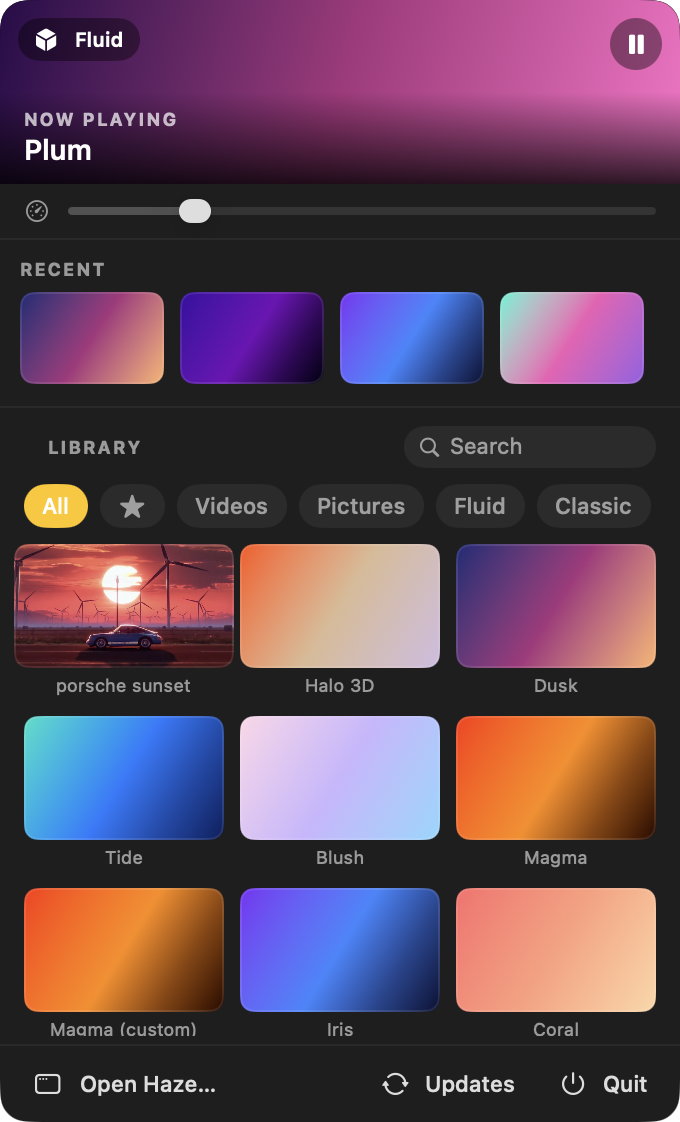
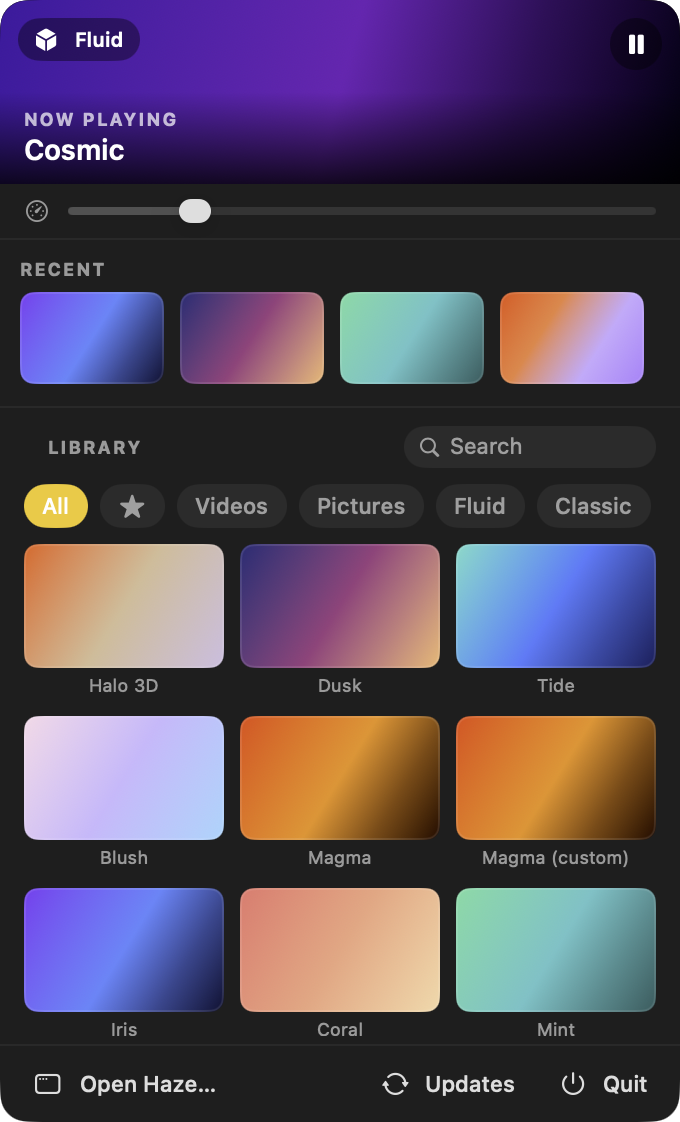
Pin the playing wallpaper, make every item editable, drop a personal clip
Three things the library view was missing.

The playing wallpaper now floats to the top of the grid, as the menu-bar panel
already did. It was always marked — accent ring, deeper shadow, a checkmark —
but in a category holding twenty-odd gradients "marked somewhere below" is not
findable, and you had to scroll hunting for it. Reordering on selection is the
cost, so the move is animated rather than a jump.

"Edit…" was in the context menu for gradients only, which left most of a
library with nothing behind a right-click. Everything file-backed now opens
MediaSettingsView: scaling, playback speed, and a frame-rate cap — all knobs
ItemSettings already carried with no way to reach them. Changes apply as you
make them, so with the item live you watch the desktop follow, which is the
only honest way to choose a scaling mode.

assets/menubar.png was reshot without the video in it. It was a personal clip
of the author's, not a bundled preset, and it had no business standing in for
the product in the README or on the site. Nothing in the code ever referenced
it — it was only ever in that screenshot.

diff --git a/Sources/Haze/Views/MediaSettingsView.swift b/Sources/Haze/Views/MediaSettingsView.swift
@@ -1,0 +1,165 @@
+import SwiftUI
+import HazeKit
+
+/// Adjustments for a file-backed item — video, GIF or still.
+///
+/// Gradients have had their own editor since the start; everything else could
+/// only be renamed, favourited or deleted, so "Edit…" was missing from the
+/// context menu for most of a library. These are the knobs `ItemSettings`
+/// already carried with no way to reach them.
+///
+/// Changes apply as you make them: if the item is the live wallpaper you watch
+/// the desktop follow, which is the only honest way to pick a scaling mode.
+struct MediaSettingsView: View {
+    @EnvironmentObject private var model: AppModel
+
+    let item: ContentItem
+    let onClose: () -> Void
+
+    @State private var scaling: Scaling
+    @State private var speed: Double
+    @State private var fps: Int
+
+    init(item: ContentItem, onClose: @escaping () -> Void) {
+        self.item = item
+        self.onClose = onClose
+        _scaling = State(initialValue: item.settings.scaling)
+        _speed = State(initialValue: item.settings.speed)
+        _fps = State(initialValue: item.settings.fps)
+    }
+
+    /// Stills have no playback rate to set.
+    private var supportsSpeed: Bool {
+        item.type == .video || item.type == .animatedImage
+    }
+
+    var body: some View {
+        VStack(alignment: .leading, spacing: 0) {
+            header
+
+            VStack(alignment: .leading, spacing: 22) {
+                scalingControl
+                if supportsSpeed { speedControl }
+                fpsControl
+            }
+            .padding(24)
+
+            Spacer(minLength: 0)
+
+            HStack {
+                Button("Reset") { reset() }
+                    .buttonStyle(.bordered)
+                Spacer()
+                Button("Done") { onClose() }
+                    .buttonStyle(.borderedProminent)
+                    .keyboardShortcut(.defaultAction)
+            }
+            .controlSize(.large)
+            .padding(24)
+        }
+        .frame(width: 460, height: supportsSpeed ? 520 : 440)
+    }
+
+    private var header: some View {
+        HStack(spacing: 14) {
+            ContentThumbnailView(item: item)
+                .frame(width: 96, height: 60)
+                .glassCard(cornerRadius: 10)
+
+            VStack(alignment: .leading, spacing: 3) {
+                Text(item.name)
+                    .font(.system(size: 20, weight: .semibold, design: .rounded))
+                    .lineLimit(1)
+                Text(item.type.displayName)
+                    .font(.subheadline)
+                    .foregroundStyle(.secondary)
+            }
+            Spacer()
+        }
+        .padding(.horizontal, 24)
+        .padding(.top, 26)
+    }
+
+    private var scalingControl: some View {
+        VStack(alignment: .leading, spacing: 8) {
+            label("Scaling", detail: scalingHint)
+            Picker("", selection: $scaling) {
+                ForEach(Scaling.allCases, id: \.self) { mode in
+                    Text(mode.displayName).tag(mode)
+                }
+            }
+            .pickerStyle(.segmented)
+            .labelsHidden()
+            .onChange(of: scaling) { apply() }
+        }
+    }
+
+    private var scalingHint: String {
+        switch scaling {
+        case .fill: return "Covers the screen, cropping the overflow."
+        case .fit: return "Shows all of it, letterboxed to fit."
+        case .stretch: return "Distorts to fill — ignores the aspect ratio."
+        case .center: return "Actual size, centred."
+        }
+    }
+
+    private var speedControl: some View {
+        VStack(alignment: .leading, spacing: 8) {
+            label("Speed", detail: String(format: "%.2f×", speed))
+            Slider(value: $speed, in: 0.25...2.0) { editing in
+                if !editing { apply() }
+            }
+            .onChange(of: speed) { model.liveUpdateCurrent(edited()) }
+        }
+    }
+
+    private var fpsControl: some View {
+        VStack(alignment: .leading, spacing: 8) {
+            label("Frame rate", detail: fps == 0 ? "Follows the display" : "\(fps) fps")
+            Picker("", selection: $fps) {
+                Text("Display").tag(0)
+                Text("60").tag(60)
+                Text("30").tag(30)
+                Text("24").tag(24)
+                Text("15").tag(15)
+            }
+            .pickerStyle(.segmented)
+            .labelsHidden()
+            .onChange(of: fps) { apply() }
+            Text("A lower cap costs less battery. Below 24 fps motion starts to judder.")
+                .font(.caption)
+                .foregroundStyle(.secondary)
+        }
+    }
+
+    private func label(_ title: String, detail: String) -> some View {
+        HStack(alignment: .firstTextBaseline) {
+            Text(title).font(.headline)
+            Spacer()
+            Text(detail)
+                .font(.caption)
+                .foregroundStyle(.secondary)
+        }
+    }
+
+    /// The item as the controls currently describe it.
+    private func edited() -> ContentItem {
+        var copy = item
+        copy.settings.scaling = scaling
+        copy.settings.speed = speed
+        copy.settings.fps = fps
+        return copy
+    }
+
+    private func apply() {
+        model.updateItem(edited())
+    }
+
+    private func reset() {
+        let defaults = ItemSettings()
+        scaling = defaults.scaling
+        speed = defaults.speed
+        fps = defaults.fps
+        apply()
+    }
+}

diff --git a/Sources/Haze/Views/WallpapersView.swift b/Sources/Haze/Views/WallpapersView.swift
@@ -10,7 +10,19 @@ struct WallpapersView: View {
     @EnvironmentObject private var model: AppModel
     @State private var category: LibraryCategory = .all
 
-    private var shown: [ContentItem] { model.items(in: category) }
+    /// The playing wallpaper is floated to the front, as the menu-bar panel
+    /// already does. With twenty-odd gradients in a category, "it is marked
+    /// somewhere in the grid" is not findable — you had to scroll hunting for a
+    /// ring. The cost is that picking a tile moves it to the top, so the
+    /// reorder is animated rather than a jump.
+    private var shown: [ContentItem] {
+        let all = model.items(in: category)
+        guard let current = model.settings.wallpaperItemID,
+              let index = all.firstIndex(where: { $0.id == current }) else { return all }
+        var reordered = all
+        reordered.insert(reordered.remove(at: index), at: 0)
+        return reordered
+    }
 
     var body: some View {
         VStack(spacing: 0) {
@@ -45,6 +57,7 @@ struct WallpapersView: View {
                             .contextMenu { menu(for: item) }
                         }
                     }
+                    .animation(.smooth(duration: 0.35), value: model.settings.wallpaperItemID)
                     .padding(24)
                 }
             }
@@ -95,12 +108,22 @@ struct WallpapersView: View {
         }
         Button("Set as Wallpaper") { model.setWallpaper(item) }
         Button("Use as Screensaver") { model.setScreensaver(item) }
+        Button("Edit…") { edit(item) }
         if item.type.isGradient {
-            Button("Edit…") { AppDelegate.shared?.showGradientEditor(.existing(item)) }
             Button("Duplicate") { duplicate(item) }
         }
         Divider()
         Button("Delete", role: .destructive) { model.deleteItem(item) }
+    }
+
+    /// Gradients open the gradient editor; everything else opens the media
+    /// adjustments. Every item in the library has something to edit.
+    private func edit(_ item: ContentItem) {
+        if item.type.isGradient {
+            AppDelegate.shared?.showGradientEditor(.existing(item))
+        } else {
+            AppDelegate.shared?.showMediaEditor(item)
+        }
     }
 
     private func duplicate(_ item: ContentItem) {

diff --git a/Sources/Haze/App/AppDelegate.swift b/Sources/Haze/App/AppDelegate.swift
@@ -114,6 +114,30 @@ final class AppDelegate: NSObject, NSApplicationDelegate, NSWindowDelegate {
         window.makeKeyAndOrderFront(nil)
     }
 
+    /// Adjustments for a file-backed item. Shares `editorWindow` with the
+    /// gradient editor — only one editor is ever meaningful at a time, and
+    /// reusing the slot means closing one cannot orphan the other.
+    func showMediaEditor(_ item: ContentItem) {
+        let close: () -> Void = { [weak self] in
+            self?.editorWindow?.close()
+            self?.editorWindow = nil
+        }
+
+        let root = MediaSettingsView(item: item, onClose: close).environmentObject(model)
+        let window = NSWindow(contentViewController: NSHostingController(rootView: root))
+        window.styleMask = [.titled, .closable, .fullSizeContentView]
+        window.titlebarAppearsTransparent = true
+        window.titleVisibility = .hidden
+        window.title = ""
+        window.isReleasedWhenClosed = false
+        window.appearance = NSAppearance(named: .darkAqua)
+        window.isMovableByWindowBackground = true
+        window.center()
+        editorWindow = window
+        NSApp.activate(ignoringOtherApps: true)
+        window.makeKeyAndOrderFront(nil)
+    }
+
     func windowWillClose(_ notification: Notification) {
         // Back to background agent once the UI is dismissed.
         DispatchQueue.main.async {
